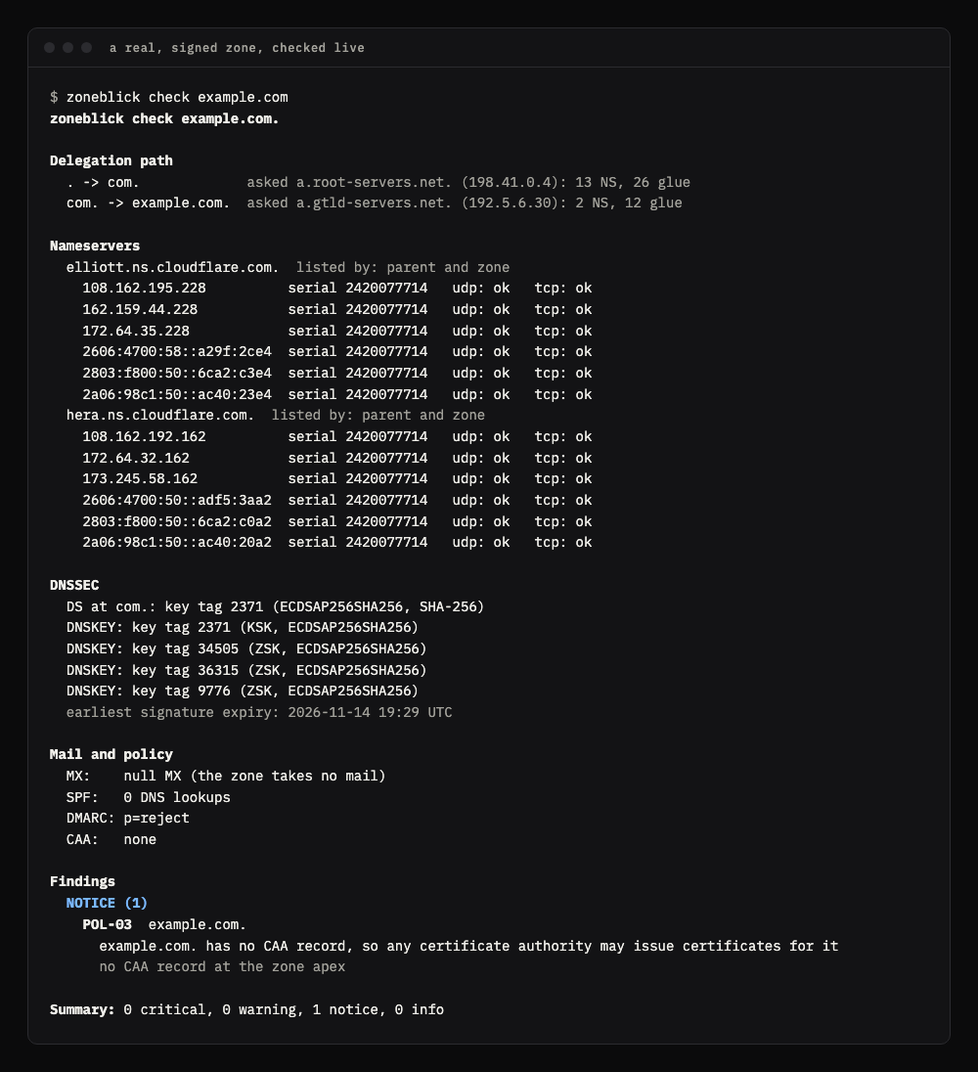
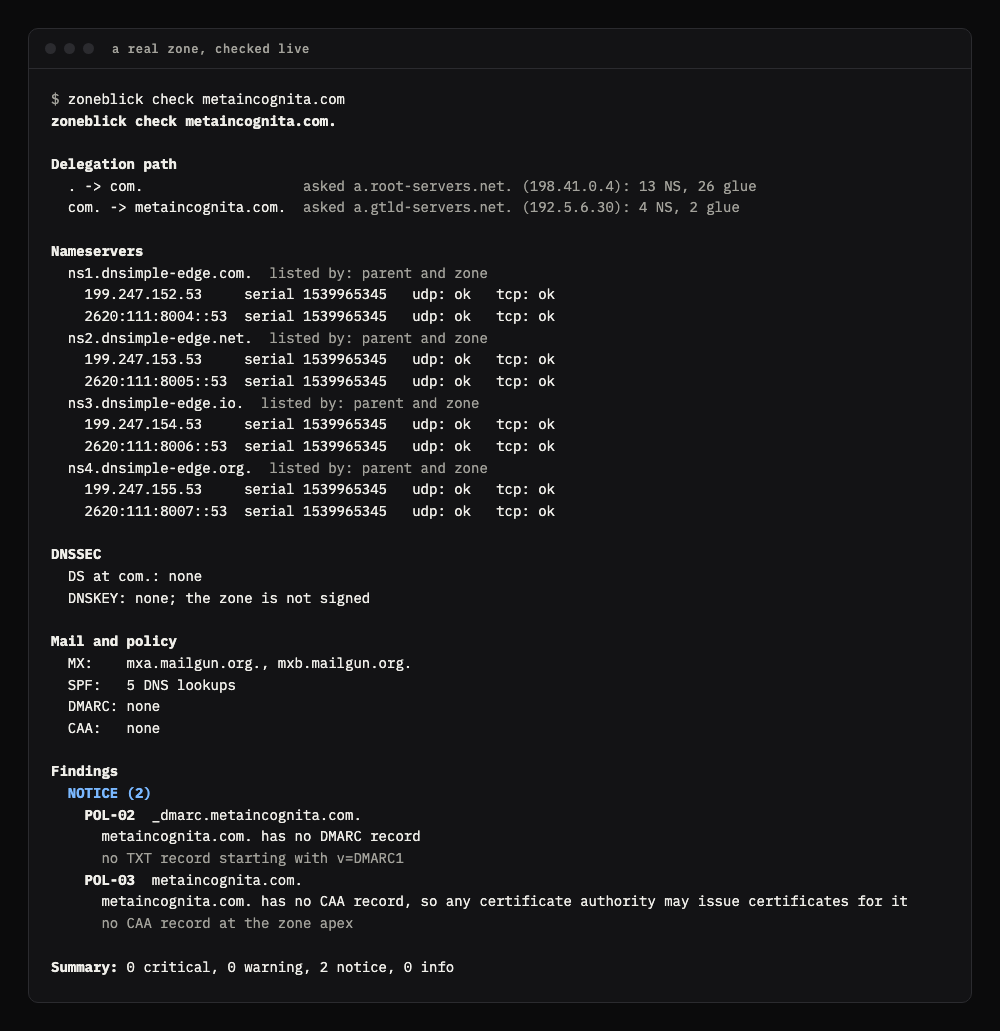
README: real-zone screenshots and example output from metaincognita.com

Changed region(s): [[0.0307, 0.031, 0.8896, 0.9622], [0.3374, 0.9311, 0.4601, 0.9622]]

diff --git a/README.md b/README.md
@@ -18,9 +18,9 @@ A check of a deliberately broken test zone. One nameserver refuses queries for t
 
 ![Terminal output of zoneblick check for a broken, unsigned zone: one critical finding, DEL-02, for a lame nameserver, and one warning, CON-01, for mismatched SOA serials](screenshots/check-findings.png)
 
-A real, signed zone, checked live:
+A real zone, checked live (the author's own, `metaincognita.com`):
 
-![Terminal output of zoneblick check for example.com: the delegation path from the root, twelve nameserver addresses all answering over UDP and TCP, the DS record and DNSSEC keys, a mail and policy summary, and one notice for a missing CAA record](screenshots/check-clean.png)
+![Terminal output of zoneblick check for metaincognita.com: the delegation path from the root, four nameservers with eight addresses all answering over UDP and TCP with the same serial, no DNSSEC, a mail and policy summary, and two notices, for a missing DMARC record and a missing CAA record](screenshots/check-clean.png)
 
 Mail-policy and takeover findings, in a test zone whose SPF record includes a domain nobody has registered:
 
@@ -42,13 +42,13 @@ The mail checks, in a test zone whose mail records are wrong in several ways: a 
 
 ![Terminal output of zoneblick check for a test zone: one critical finding for an SPF include of an unregistered domain, four warnings covering MTA-STS, TLSA and two DKIM selectors, and four notices covering DMARC, CAA, TLS reporting and BIMI](screenshots/mail.png)
 
-What a deep run adds for a real, signed zone, read from its JSON output: the chain of trust from the root, the signature check of every record set, and the domain's registration:
+What a deep run adds for the same zone, read from its JSON output: the chain of trust from the root (which ends as "insecure" at a zone that is not signed, with the parent's proof that there is no DS record), the network its nameservers are in, whether any allows zone transfers or recursion, and the domain's registration:
 
-![Terminal output of a deep run of example.com piped through jq: the chain of trust is secure at the root, at com and at example.com, 72 record-set signatures are valid, and the registration shows the registrar, three lock statuses and an expiry date in August 2027](screenshots/deep.png)
+![Terminal output of a deep run of metaincognita.com piped through jq: the chain of trust is secure at the root and at com and insecure at metaincognita.com, every nameserver is in AS32771, none allows transfers or recursion, and the registration shows the registrar, a transfer lock and an expiry date in August 2027](screenshots/deep.png)
 
-The digest, here for two real zones after four runs each:
+The digest, here for that zone after three runs:
 
-![Terminal output of zoneblick digest: two zones, two open findings, and for each zone the number of runs, the open findings by severity and the finding opened in the period](screenshots/digest.png)
+![Terminal output of zoneblick digest: one zone, three open findings, the number of runs, and the three notices opened in the period](screenshots/digest.png)
 
 The web UI's history tab, for a test zone that changed in its tenth run. The strip is the timeline, one bar per stored run; below it, the changes between the selected run and the one before:
 
@@ -56,7 +56,7 @@ The web UI's history tab, for a test zone that changed in its tenth run. The str
 
 The API token, from 0.14.0. The daemon makes one on its first start in a file only its own user can read; a request without it is refused, also on localhost:
 
-![Terminal session: zoneblick serve logs that it made an API token, the token file is readable by its owner only, a request without the token gets an unauthorized error, zoneblick token --show prints the token, and the same request with the token returns the zone](screenshots/token.png)
+![Terminal session: zoneblick serve logs that it made an API token, the token file is readable by its owner only, a request without the token gets an unauthorized error, zoneblick token --show prints the token, and the same request with the token returns the zone metaincognita.com](screenshots/token.png)
 
 The web UI asks for the token once per browser session:
 
@@ -314,7 +314,7 @@ Each release on the [releases page](https://github.com/cschweda/zoneblick/releas
 
 The Linux binaries are statically linked, so they run on any distribution with no other packages. The Windows binary also runs on ARM PCs through emulation.
 
-Each set of commands below downloads the binary, installs it and runs a first check. Change `v0.14.0` to install another release.
+Each set of commands below downloads the binary, installs it and runs a first check, of the author's zone; put yours in its place. Change `v0.14.0` to install another release.
 
 **Linux**
 
@@ -326,7 +326,7 @@ curl -LO https://github.com/cschweda/zoneblick/releases/download/$V/zoneblick-$V
 tar -xzf zoneblick-$V-$T.tar.gz
 sudo install zoneblick-$V-$T/zoneblick /usr/local/bin/
 
-zoneblick check example.org
+zoneblick check metaincognita.com
 ```
 
 **macOS**
@@ -341,7 +341,7 @@ tar -xzf zoneblick-$V-$T.tar.gz
 sudo mkdir -p /usr/local/bin
 sudo install zoneblick-$V-$T/zoneblick /usr/local/bin/
 
-zoneblick check example.org
+zoneblick check metaincognita.com
 ```
 
 **Windows (PowerShell)**
@@ -353,7 +353,7 @@ $T = "x86_64-pc-windows-msvc"
 Invoke-WebRequest "https://github.com/cschweda/zoneblick/releases/download/$V/zoneblick-$V-$T.zip" -OutFile zoneblick.zip
 Expand-Archive zoneblick.zip -DestinationPath .
 
-& ".\zoneblick-$V-$T\zoneblick.exe" check example.org
+& ".\zoneblick-$V-$T\zoneblick.exe" check metaincognita.com
 ```
 
 On Windows the binary stays in the unpacked folder. To run `zoneblick` from any folder, move `zoneblick.exe` to a folder on your `PATH`. The Windows binary is not signed.
@@ -415,44 +415,56 @@ zoneblick is one binary. `check`, `run` and `diff` need no config file; only `ru
 Once installed:
 
 ```
-zoneblick check example.com
+zoneblick check metaincognita.com
 ```
 
-Or, without installing, run it from a checkout with `cargo run -- check example.com`.
+Put your own zone in place of `metaincognita.com`, which is the author's. Or, without installing, run it from a checkout with `cargo run -- check metaincognita.com`.
 
 `check` resolves the zone from the root servers, asks every authoritative nameserver directly over UDP and TCP, IPv4 and IPv6, reads the zone's DNSSEC keys and signatures and its mail and policy records, and reports what is wrong. It needs no config file and no database, and it never uses your system resolver for zone data.
 
 ```
-zoneblick check example.com.
+zoneblick check metaincognita.com.
 
 Delegation path
-  . -> com.             asked a.root-servers.net. (198.41.0.4): 13 NS, 26 glue
-  com. -> example.com.  asked a.gtld-servers.net. (192.5.6.30): 2 NS, 12 glue
+  . -> com.                   asked a.root-servers.net. (198.41.0.4): 13 NS, 26 glue
+  com. -> metaincognita.com.  asked a.gtld-servers.net. (192.5.6.30): 4 NS, 2 glue
 
 Nameservers
-  elliott.ns.cloudflare.com.  listed by: parent and zone
-    108.162.195.228          serial 2418004112   udp: ok   tcp: ok
+  ns1.dnsimple-edge.com.  listed by: parent and zone
+    199.247.152.53     serial 1539965345   udp: ok   tcp: ok
+    2620:111:8004::53  serial 1539965345   udp: ok   tcp: ok
     ...
 
+DNSSEC
+  DS at com.: none
+  DNSKEY: none; the zone is not signed
+
+Mail and policy
+  MX:    mxa.mailgun.org., mxb.mailgun.org.
+  SPF:   5 DNS lookups
+  DMARC: none
+  CAA:   none
+
+Findings
+  NOTICE (2)
+    POL-02  _dmarc.metaincognita.com.
+      metaincognita.com. has no DMARC record
+      no TXT record starting with v=DMARC1
+    POL-03  metaincognita.com.
+      metaincognita.com. has no CAA record, so any certificate authority may issue certificates for it
+      no CAA record at the zone apex
+
+Summary: 0 critical, 0 warning, 2 notice, 0 info
+```
+
+For a signed zone the DNSSEC part lists the DS record at the parent, the zone's keys and the earliest signature expiry:
+
+```
 DNSSEC
   DS at com.: key tag 2371 (ECDSAP256SHA256, SHA-256)
   DNSKEY: key tag 2371 (KSK, ECDSAP256SHA256)
   DNSKEY: key tag 34505 (ZSK, ECDSAP256SHA256)
   earliest signature expiry: 2026-11-14 18:16 UTC
-
-Mail and policy
-  MX:    null MX (the zone takes no mail)
-  SPF:   0 DNS lookups
-  DMARC: p=reject
-  CAA:   none
-
-Findings
-  NOTICE (1)
-    POL-03  example.com.
-      example.com. has no CAA record, so any certificate authority may issue certificates for it
-      no CAA record at the zone apex
-
-Summary: 0 critical, 0 warning, 1 notice, 0 info
 ```
 
 To see findings without touching the network, replay the deliberately broken test zone from a checkout of this repository:
